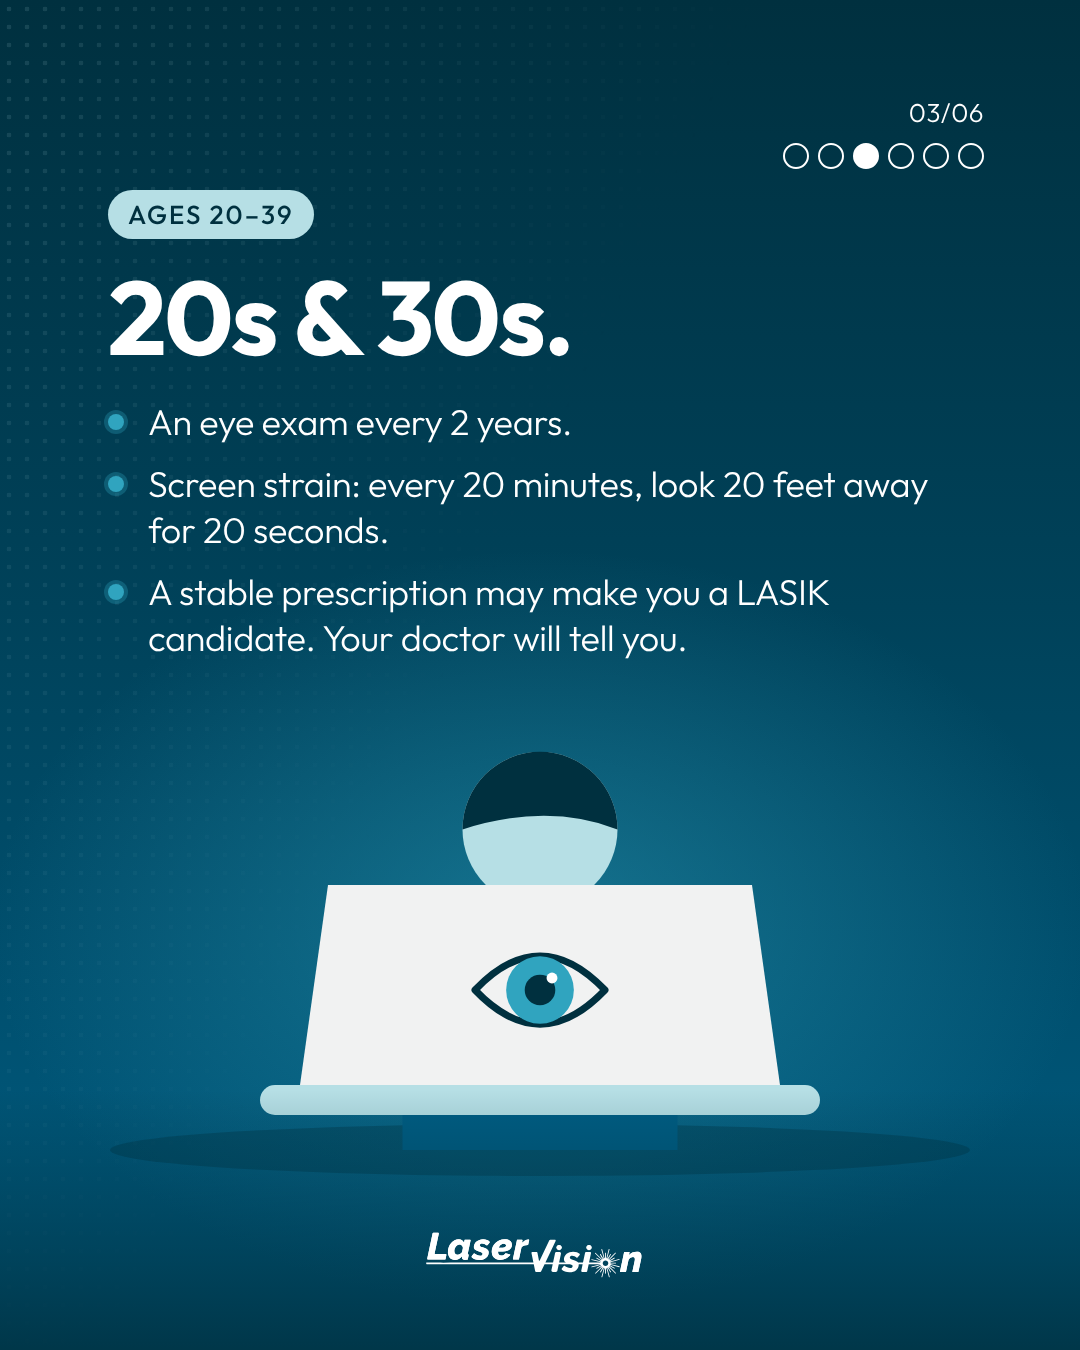
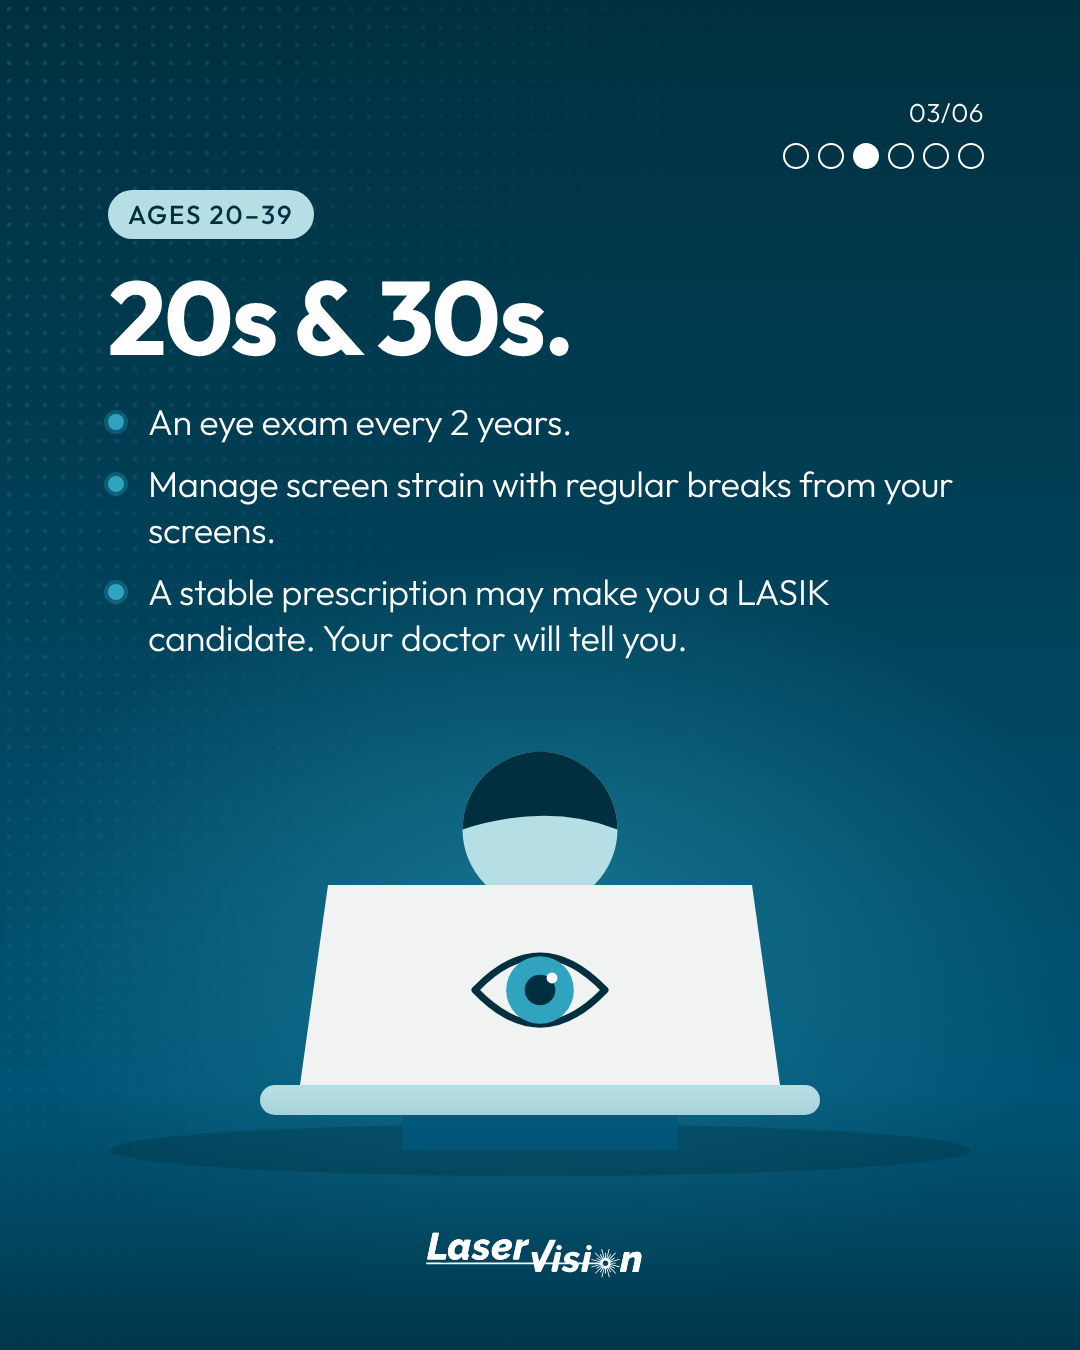
Eyes at every age: drop 20-20-20 rule from slide 3 (own carousel)
Claude-Session: https://claude.ai/code/session_018171GEdtMwsd4sput3RUy5

Changed region(s): [[0.1222, 0.3422, 0.8861, 0.4044]]

diff --git a/carousels/laservision/eyes-at-every-age/build.py b/carousels/laservision/eyes-at-every-age/build.py
@@ -83,7 +83,7 @@ SLIDES = [
               "Watch for squinting, head tilting or sitting too close to screens."]),
     dict(tag="Ages 20–39", h="20s &amp; 30s.",
          pts=["An eye exam every 2 years.",
-              "Screen strain: every 20 minutes, look 20 feet away for 20 seconds.",
+              "Manage screen strain with regular breaks from your screens.",
               "A stable prescription may make you a LASIK candidate. Your doctor will tell you."]),
     dict(tag="Ages 40–59", h="40s &amp; 50s.",
          pts=["Reading up close getting harder? That's presbyopia, and it's normal.",
